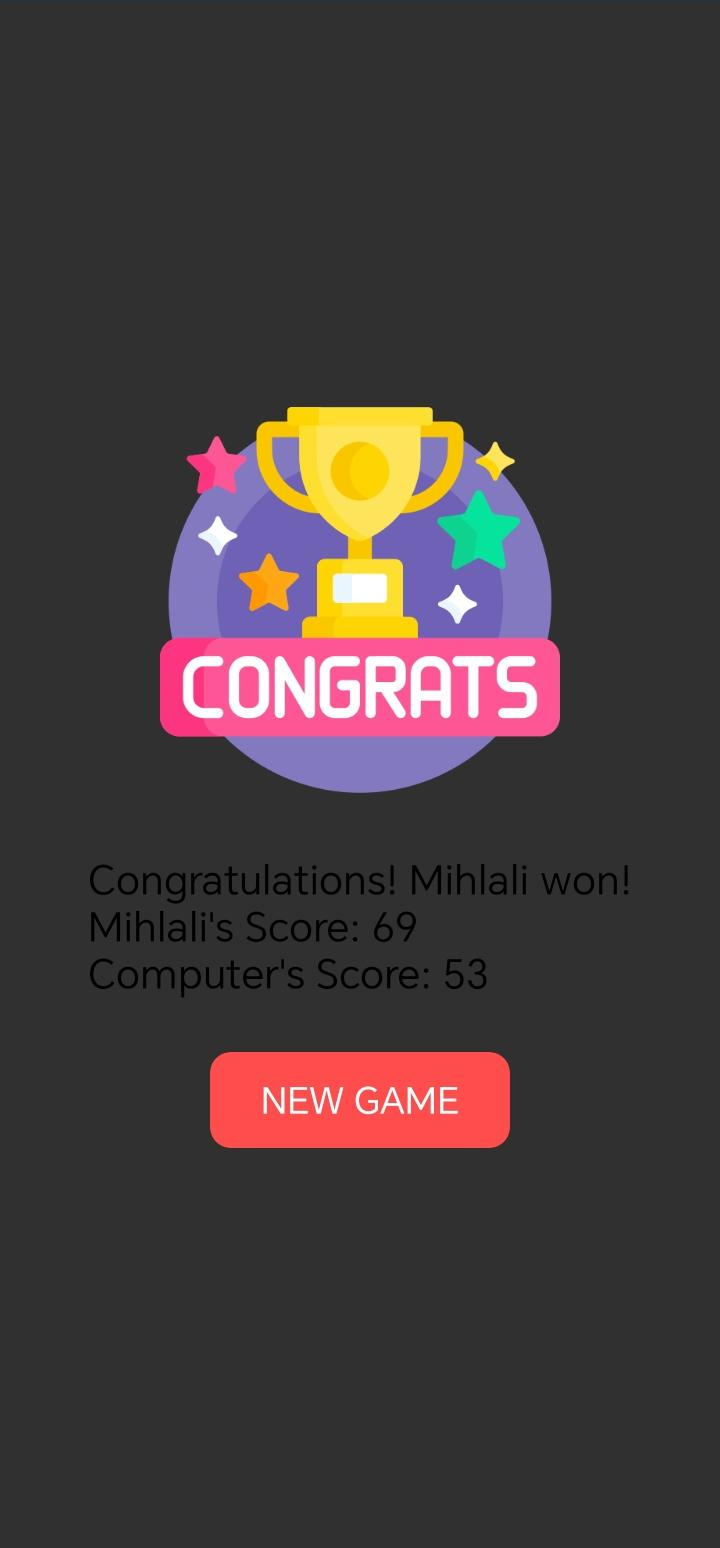
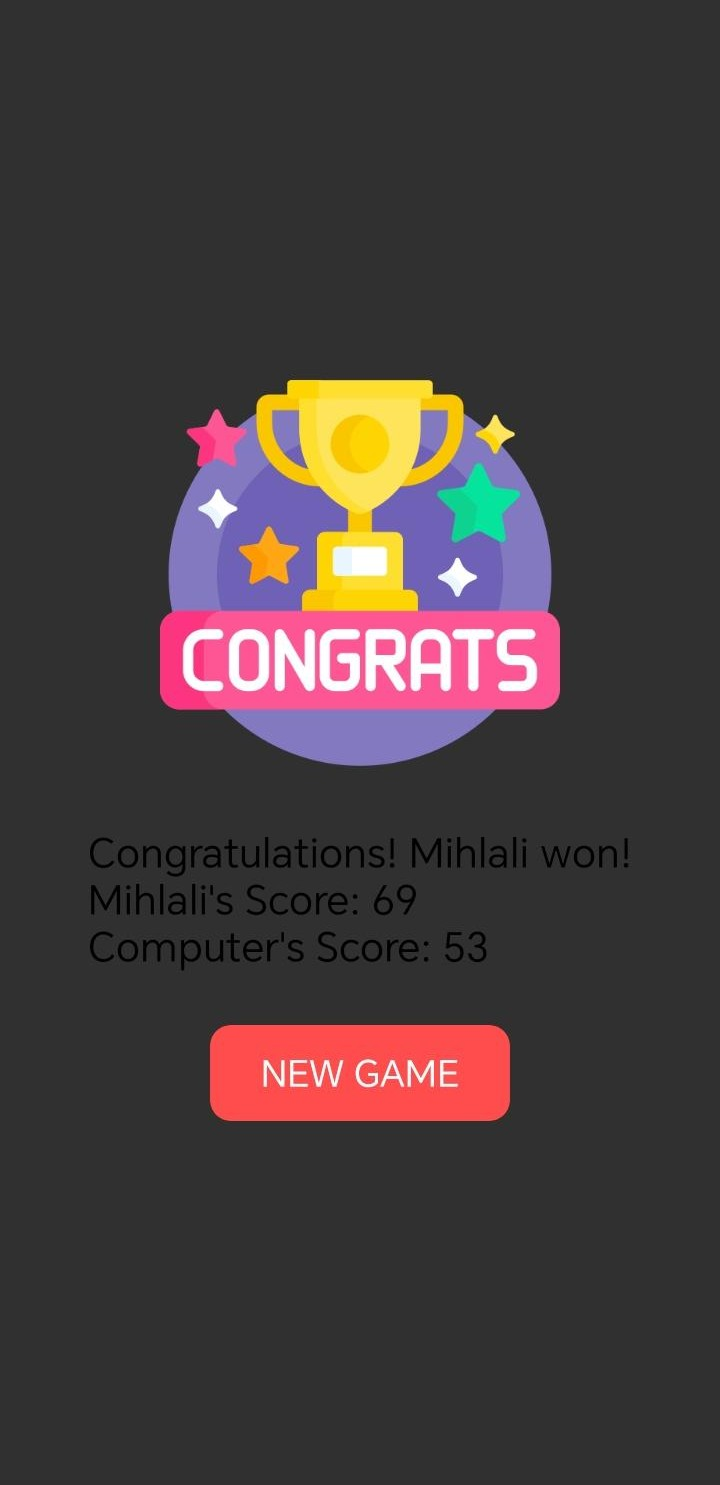
updated the documentation for better review, with screenshots

diff --git a/README.md b/README.md
@@ -1,16 +1,16 @@
-# 🎲 DiceyDelight
+# DiceyDelight
 
 A fun and engaging two-player dice game built with **Xamarin.Forms** where you compete against the computer. Roll the dice, choose your numbers, and aim for the highest score!
 
 ---
 
-## 📱 About the Game
+## About the Game
 
 DiceyDelight is a turn-based dice game. The player and the computer take turns rolling three dice. The goal is to remove all number boxes from 2 to 12 by matching the sum of two dice. A special star on the third die can steal the opponent's highest number!
 
 ---
 
-## 🎮 Game Features
+## Game Features
 
 - **Three Difficulty Levels** – Easy, Intermediate, and Hard (adjusts timer duration)
 - **Turn-Based Gameplay** – Alternate turns between player and computer
@@ -22,7 +22,7 @@ DiceyDelight is a turn-based dice game. The player and the computer take turns r
 
 ---
 
-## 🧩 Game Rules
+## Game Rules
 
 1. Each turn, the player rolls **three dice**
 2. The sum of the **first two dice** determines which number box (2–12) you can remove
@@ -46,7 +46,7 @@ DiceyDelight is a turn-based dice game. The player and the computer take turns r
 
 ---
 
-## 🚀 Getting Started
+## Getting Started
 
 ### Prerequisites
 
@@ -89,10 +89,6 @@ DiceyDelight is a turn-based dice game. The player and the computer take turns r
 
 ## Screenshots
 
-## Screenshots
-
-## Screenshots
-
 | Main Menu | Gameplay Screen | Win Alert |
 |:---------:|:---------------:|:---------:|
 | ![Main Menu](./DiceyDelight/DiceyDelight/public/MainPage.jpeg) | ![Gameplay](./DiceyDelight/DiceyDelight/public/DicePlay.jpeg) | ![Alert](./DiceyDelight/DiceyDelight/public/Alert.jpeg) |
@@ -116,5 +112,7 @@ Replace `Dice2.jpg` in all platform resource folders:
 
 - Android: Resources/drawable/
 - iOS: Resources/
+
+---
 
 An exciting dice-rolling game developed as a school project by a group of students from the University of Fort Hare.
